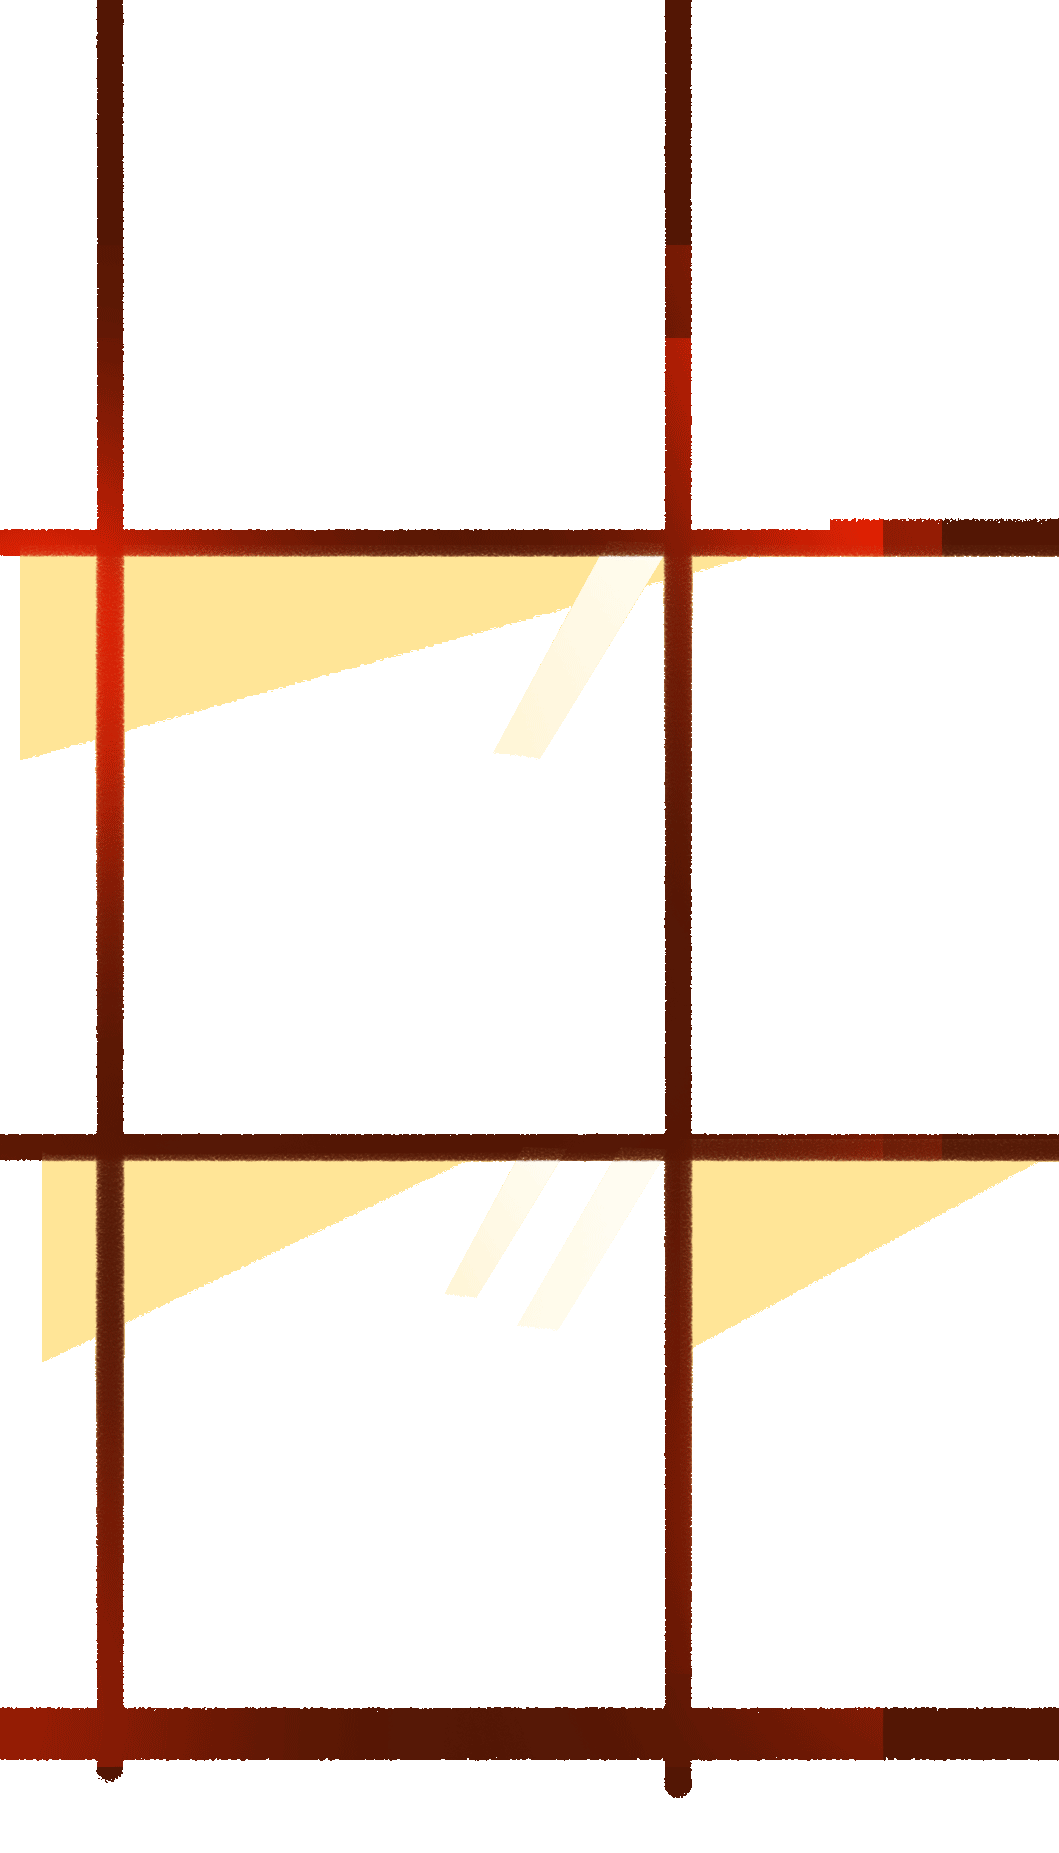
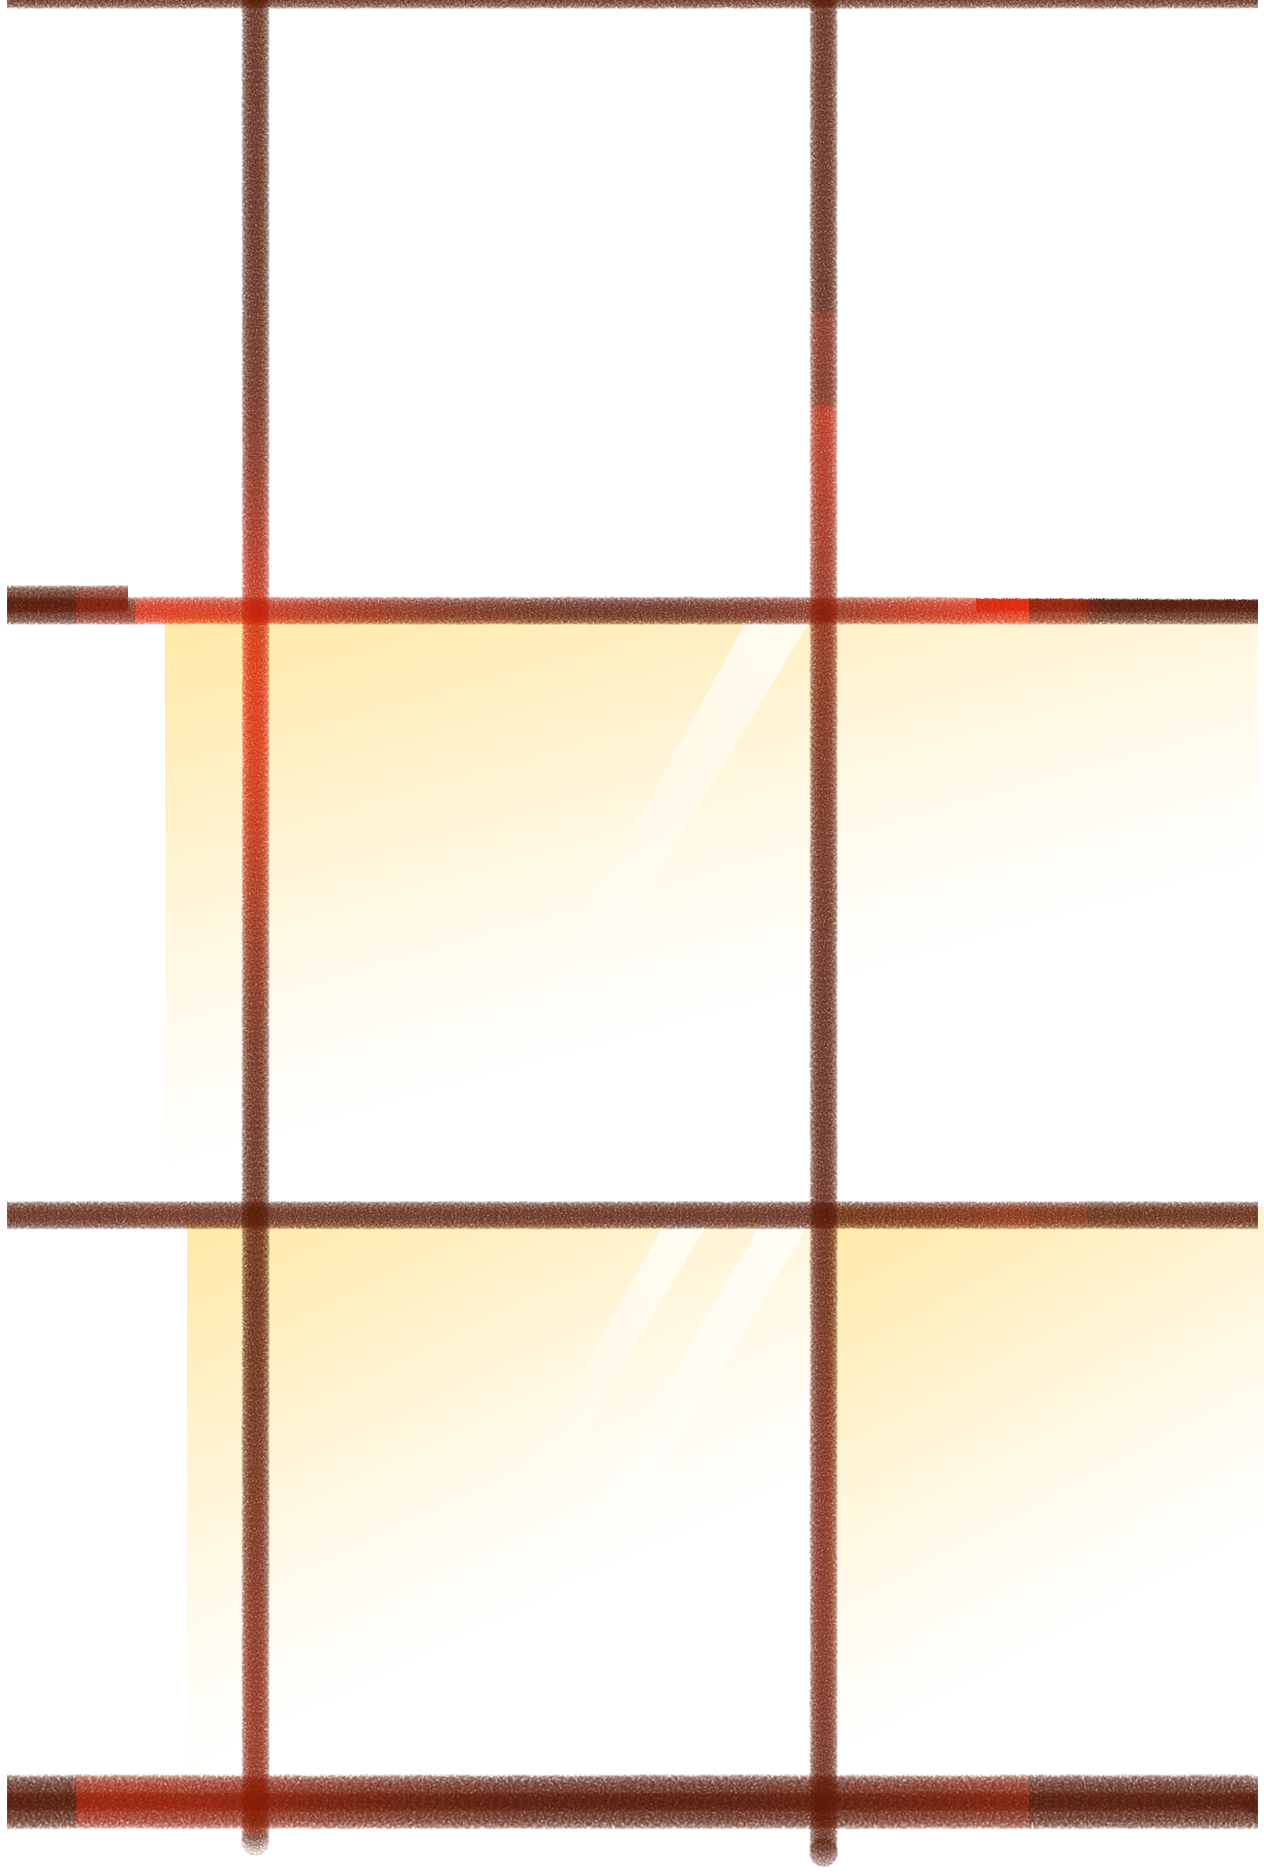
画中画

diff --git a/index1.html b/index1.html
@@ -14,6 +14,7 @@
   <link rel="stylesheet" href="css/p3.css">
   <link rel="stylesheet" href="css/p4.css">
   <link rel="stylesheet" href="css/p5.css">
+  <link rel="stylesheet" href="css/p6.css">
   <!-- js -->
   <script type="text/javascript" src="./js/util.js"></script>
   <script type="text/javascript" src="./js/jquery.min.js"></script>
@@ -217,6 +218,11 @@
         <div class="liuyan scene">
           <img src="./h5imgs/page5/liuyan.png" alt="" style="width:100%;">
         </div>
+      </div>
+    </div>
+    <div class="p6" id="p6">
+      <div class="p6-scroll">
+        <h2>第6个场景</h2>
       </div>
     </div>
   </div>
@@ -531,7 +537,7 @@
         .setPin("#p2")
         .setTween(tl2)
         .addIndicators({
-          name: "p2"
+          // name: "p2"
         })
         .addTo(controller2);
 
@@ -696,7 +702,7 @@
         .setPin("#p3")
         .setTween(tl3)
         .addIndicators({
-          name: "p3"
+          // name: "p3"
         })
         .addTo(controller3);
 
@@ -801,7 +807,7 @@
       // },'p4Label1')
 
       tl4.to("#p4 .window", 1, {
-        left: 0,
+        left: -190,
         ease: Linear.easeOut,
       })
       tl4.to("#p4 .airplane", 2, {
@@ -872,7 +878,7 @@
         .setPin("#p4")
         .setTween(tl4)
         .addIndicators({
-          name: "p4"
+          // name: "p4"
         })
         .addTo(controller4);
 
@@ -904,17 +910,37 @@
         ease: Linear.easeOut,
       })
       var scene5 = new ScrollMagic.Scene({
-          duration: 2000
-        })
-        .triggerHook(1)
-        .triggerElement('#p5')
-        .setPin("#p5")
-        .setTween(tl5)
-        .addIndicators({
-          name: "p5"
-        })
-        .addTo(controller5);
+        duration: 2000
+      })
+      .triggerHook(1)
+      .triggerElement('#p5')
+      .setPin("#p5")
+      .setTween(tl5)
+      .addIndicators({
+        // name: "p5"
+      })
+      .addTo(controller5);
 
+      // 场景6
+      var controller6 = new ScrollMagic.Controller();
+      var tl6 = new TimelineMax({
+
+      })  
+      // tl6.to("#p6 .p6-scroll", .1, {
+      //   opacity:1,
+      //   ease: Linear.easeOut,
+      // })
+      var scene6 = new ScrollMagic.Scene({
+        duration: 2000
+      })
+      .triggerHook(0)
+      .triggerElement('#p6')
+      .setPin("#p6")
+      .setTween(tl6)
+      .addIndicators({
+        name: "p6"
+      })
+      .addTo(controller6);
     }
   </script>
 </body>

diff --git a/css/p5.css b/css/p5.css
@@ -2,8 +2,6 @@
   width:100%;
   height: 1px;
   position: relative;
-  /* overflow: hidden; */
-  /* background:url(../h5imgs/page3/p3-bg.png) 0 0 no-repeat; */
 }
 .p5-scroll {
   width:100%;
@@ -14,6 +12,8 @@
   opacity: 0;
 }
 .liuyan {
+  height:100%;
+  overflow: hidden;
   transform-origin: 544px 378px;
   transform: scale(6);
 }

diff --git a/css/p6.css b/css/p6.css
@@ -1,0 +1,13 @@
+.p6 {
+  width:100%;
+  height: 1px;
+  position: relative;
+}
+.p6-scroll {
+  width:100%;
+  height: 100vh;
+  transform: translateY(0);
+  background-color: orange;
+  position: relative;
+  /* opacity: 0; */
+}

diff --git a/css/p4.css b/css/p4.css
@@ -57,7 +57,7 @@
 .window{
   position: absolute;
   bottom:-30px;
-  left:-1100px;
+  left:-1300px;
   /* z-index: 100; */
   opacity: .8;
   /* display: none; */
